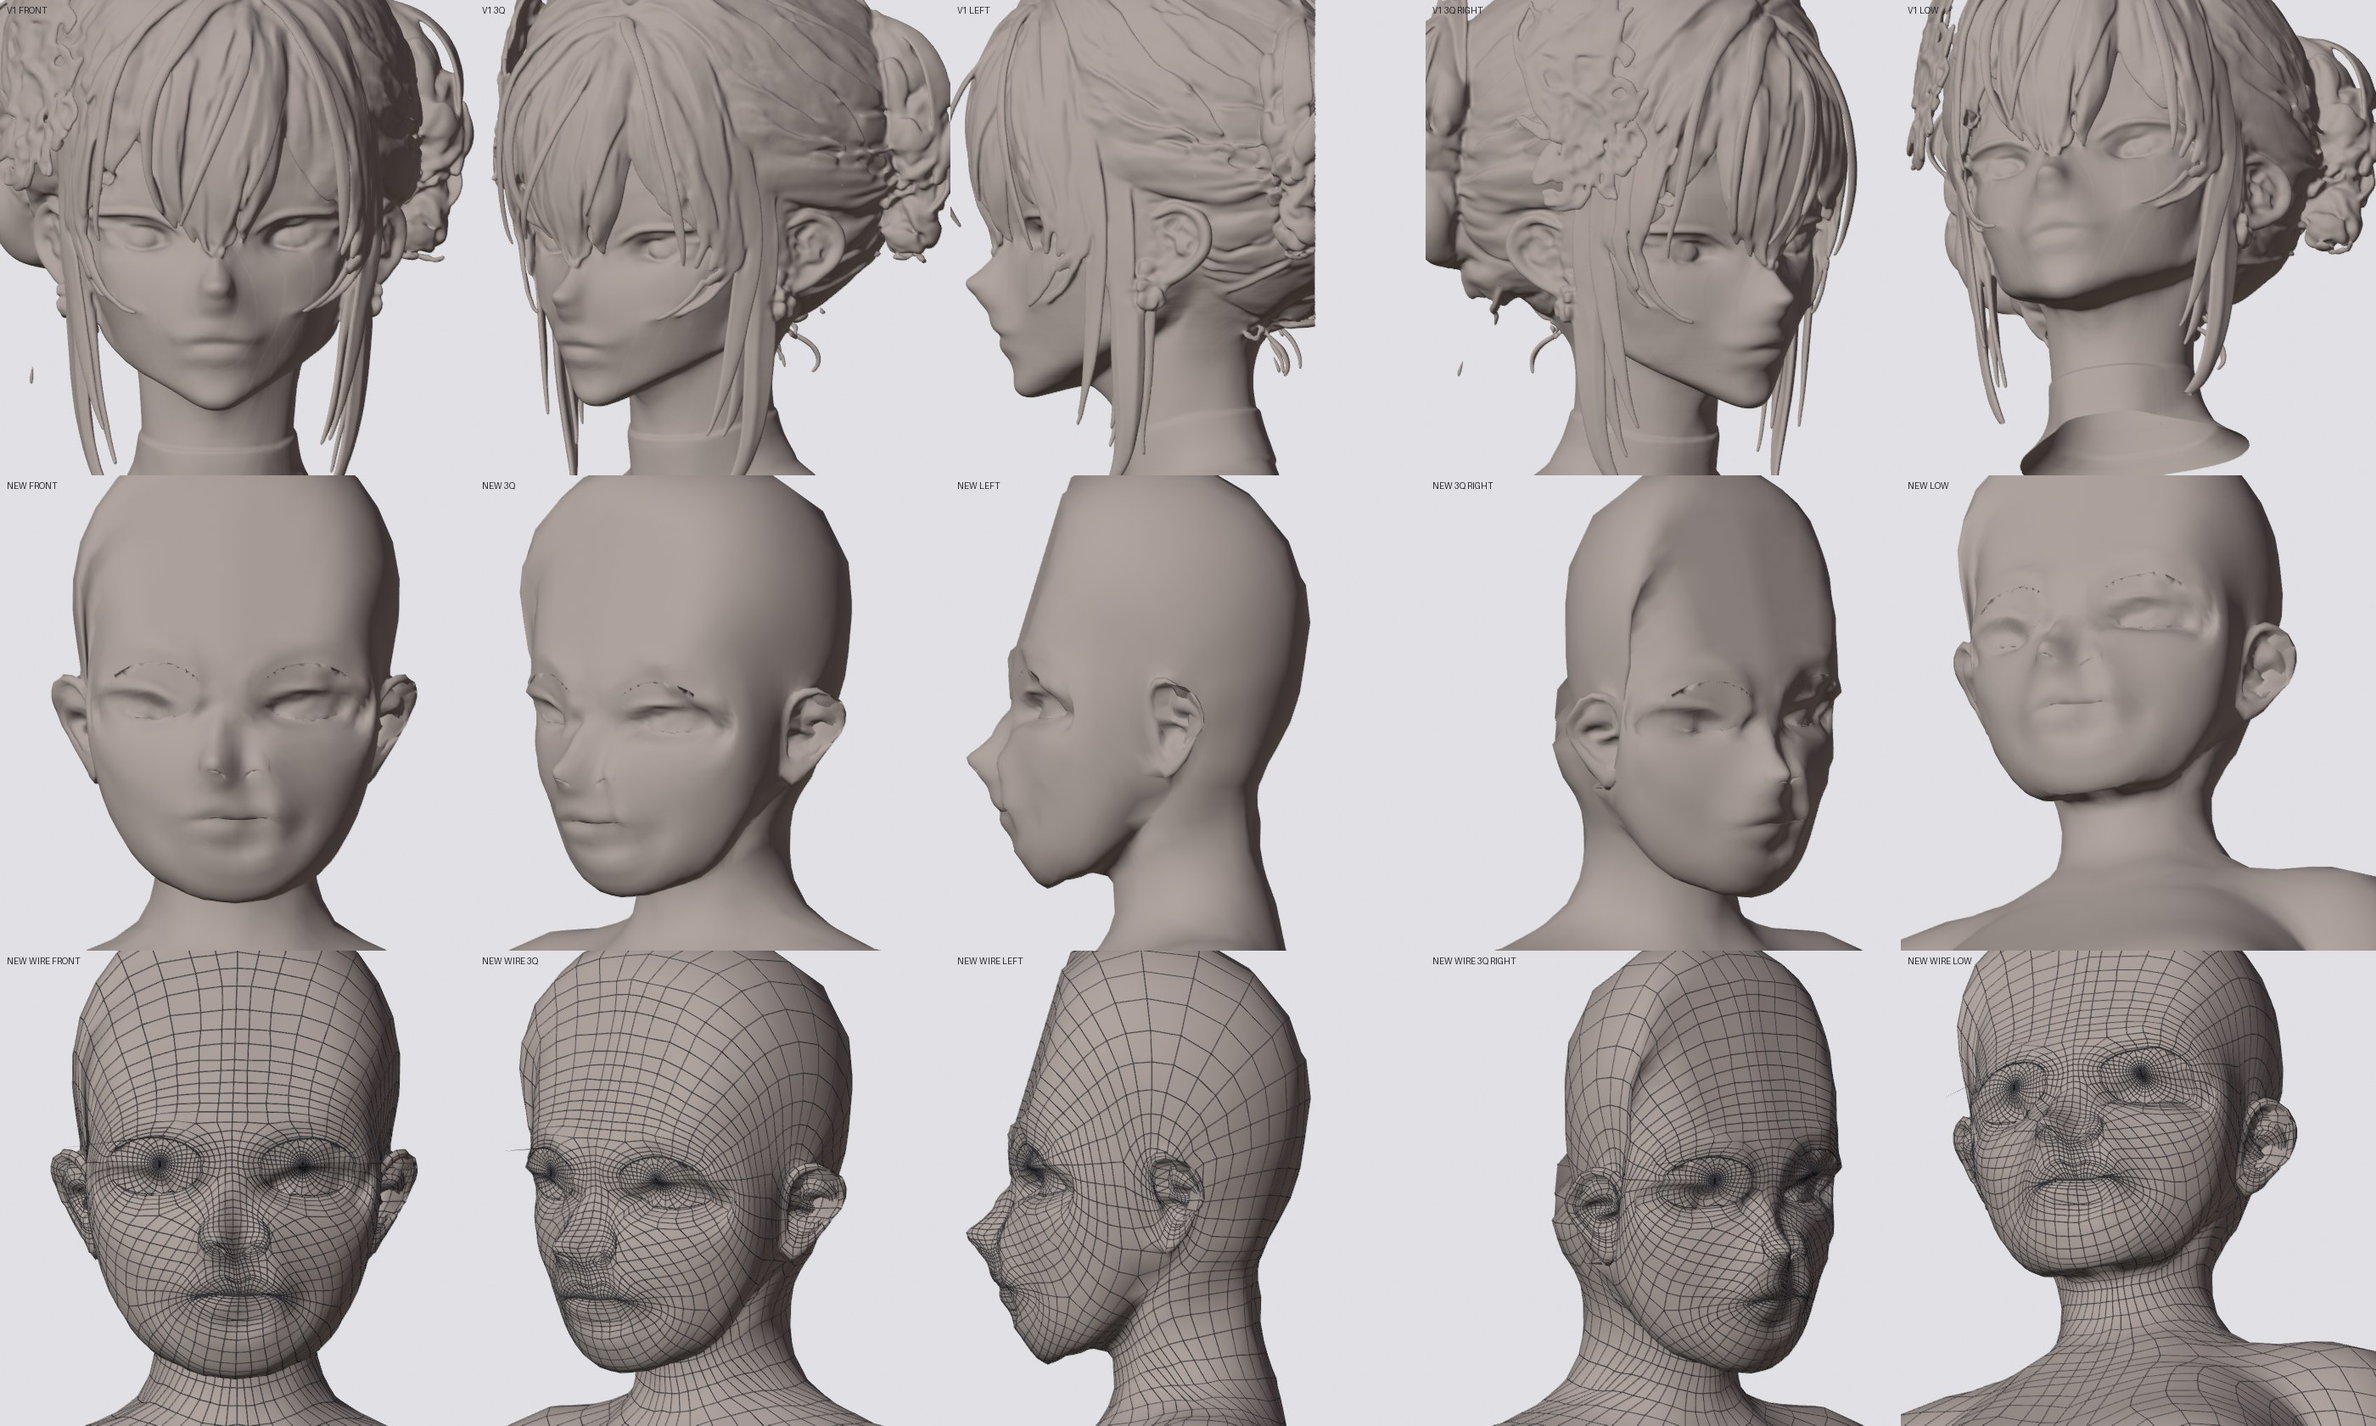
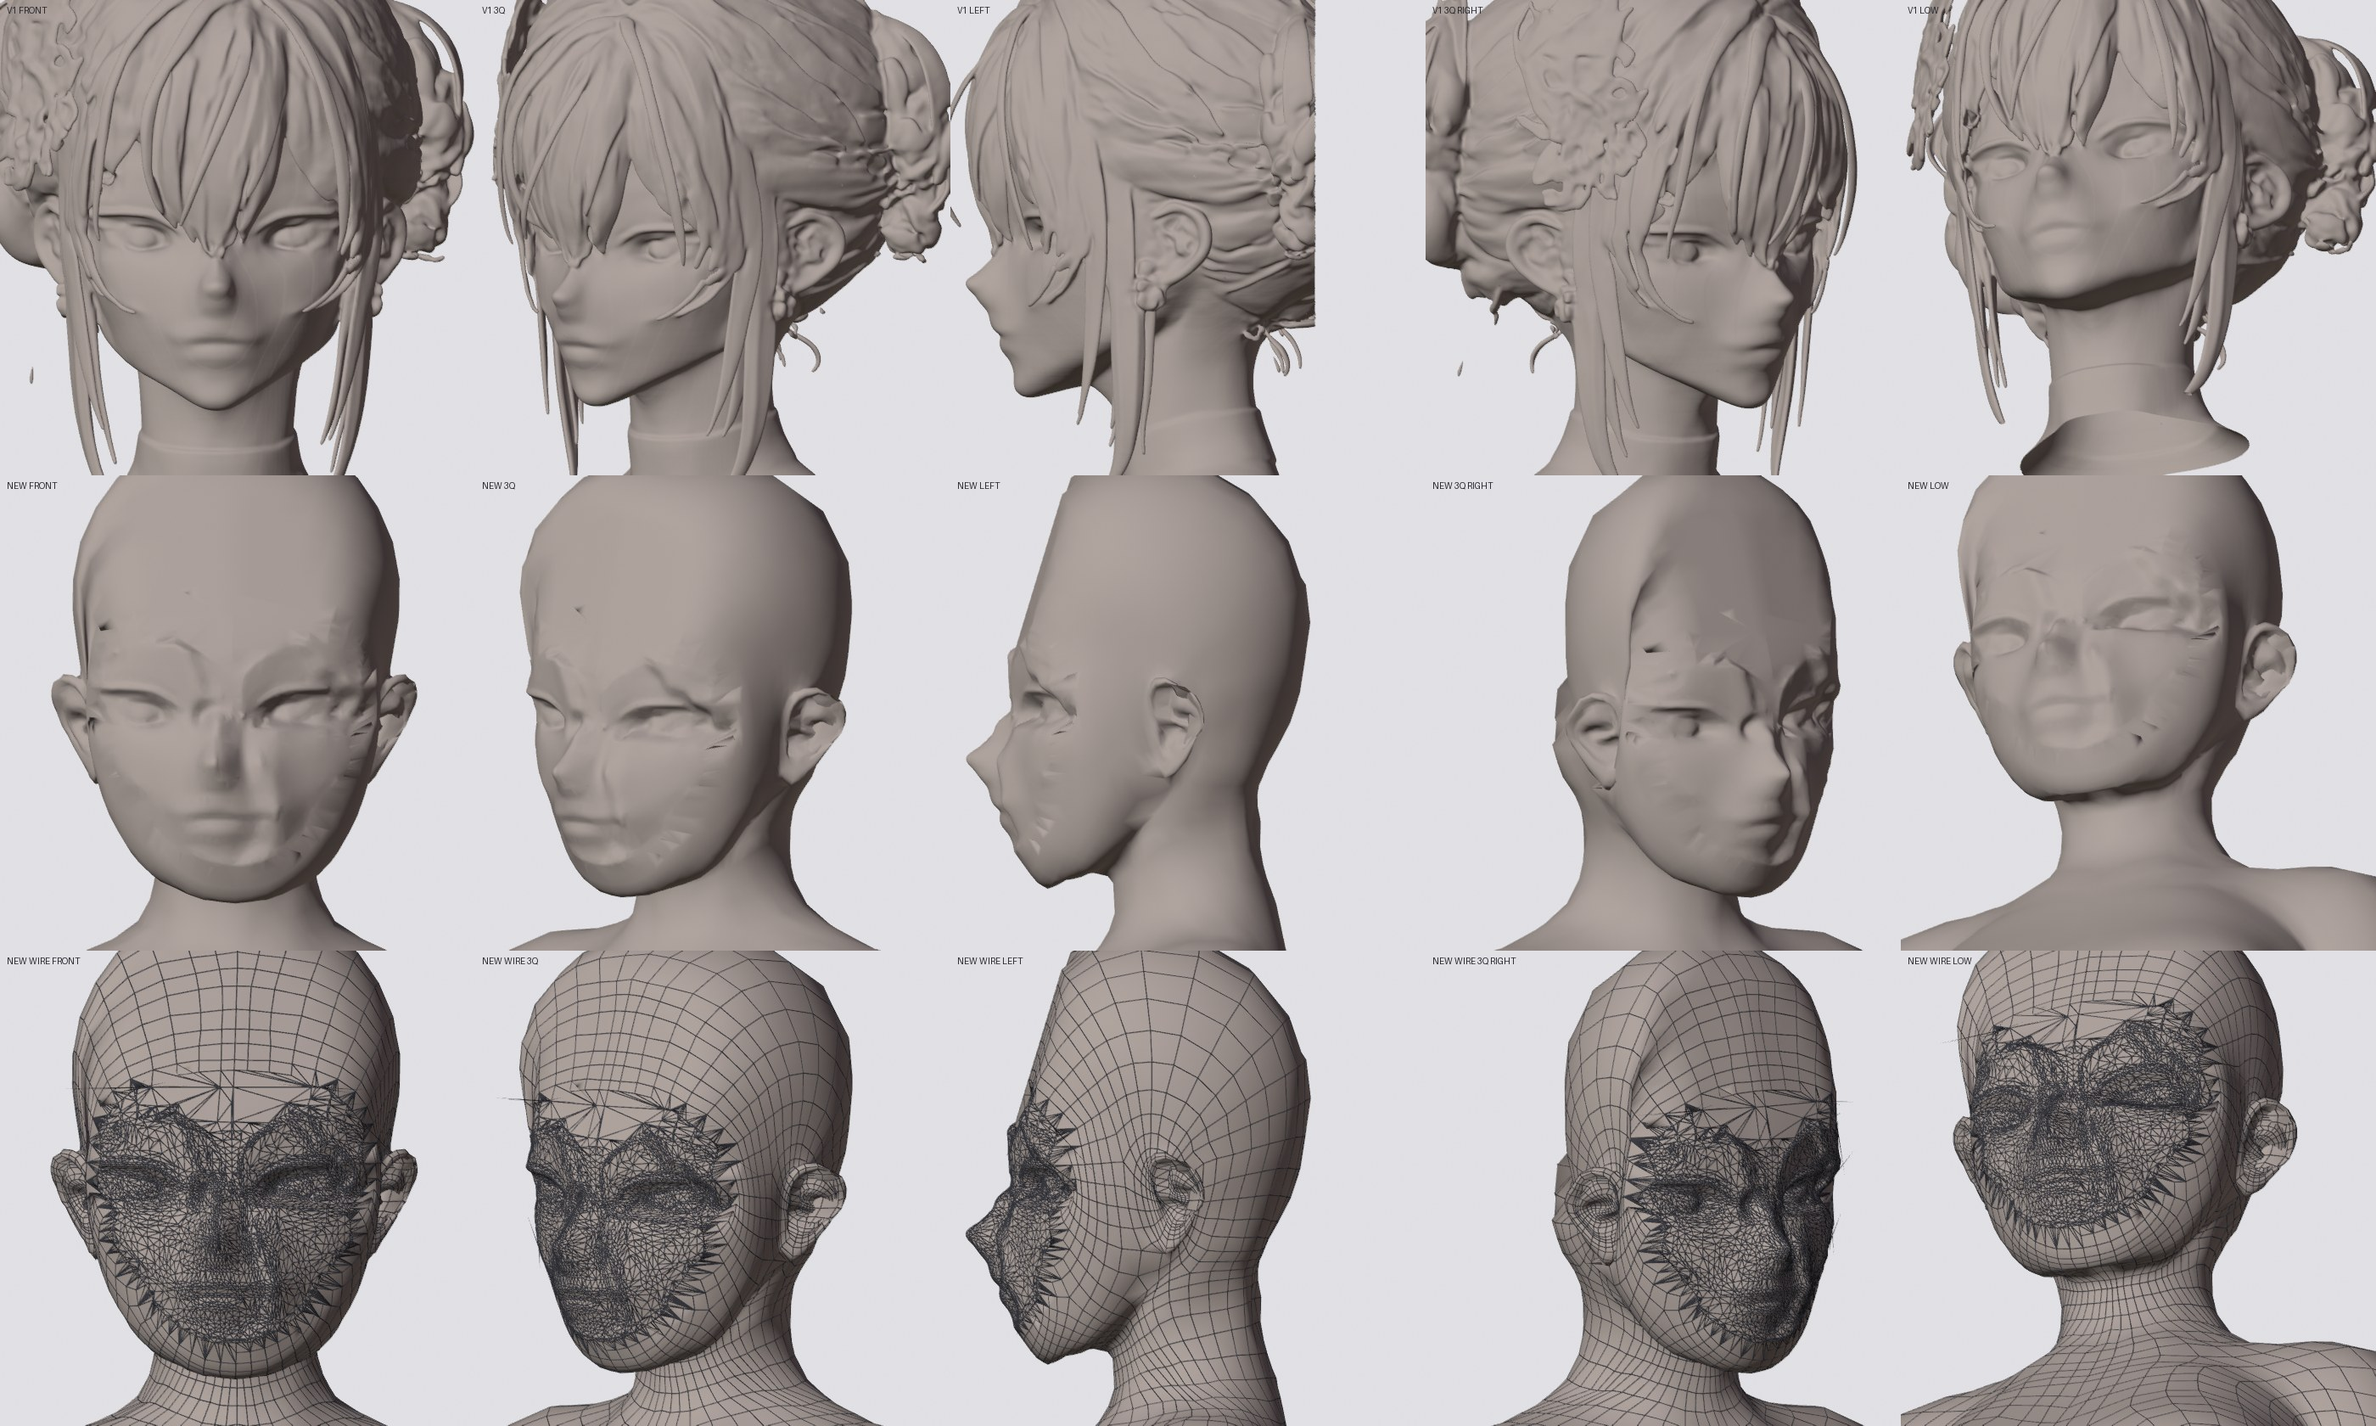
Elise v2: the first version's face grafted into the continuous body
The owner chose the first version's face as it is: its skin surface
(1 mm depth map of the generated head) replaces the base mesh's face
inside a smooth outline and is sewn to the hole; the rim blends into
the fitted head. 0 open edges.

Claude-Session: https://claude.ai/code/session_01GXNexKXtwYReCYFUjnCcS3

diff --git a/art/agents/elise/v2/a1_body.py b/art/agents/elise/v2/a1_body.py
@@ -379,13 +379,138 @@ zmin = X[:, 2].min(); print('lowest point %.4f; height of the body (no hair) %.3
 np.savez_compressed(WD + '/body.npz', V=X, F=F, FT=FT, VT=VT, w_names=np.array(list(W)), w=np.stack([W[k] for k in W], 1).astype(np.float32),
                     face_region=R, cav=CAV, **{'pk_' + k: v[0] for k, v in PK.items()}, **{'rim_' + k: v[1] for k, v in PK.items()}, newb_names=np.array(list(NEWB)), newb=np.array([np.r_[NEWB[k][0], NEWB[k][1]] for k in NEWB]),
                     landmarks=np.array([I_NOSE, I_CHIN]))
-# ---------------- check images
+# ---------------- the face of the first version itself, grafted in: its skin surface (the depth map of the generated
+# head at 1 mm, i.e. the same shape) replaces the base mesh's face and is sewn to the hole without a gap
+M = ok.copy(); reach = np.zeros((NZ, NX), bool); st = [(0, 0), (0, NX - 1), (NZ - 1, 0), (NZ - 1, NX - 1)]
+while st:
+    j, i = st.pop()
+    if j < 0 or i < 0 or j >= NZ or i >= NX or reach[j, i] or M[j, i]: continue
+    reach[j, i] = True; st += [(j + 1, i), (j - 1, i), (j, i + 1), (j, i - 1)]
+M = ~reach                                  # holes filled
+def erode(m, n_):
+    for _ in range(n_):
+        p_ = np.pad(m, 1); m = p_[1:-1, 1:-1] & p_[2:, 1:-1] & p_[:-2, 1:-1] & p_[1:-1, 2:] & p_[1:-1, :-2]
+    return m
+def dilate(m, n_):
+    for _ in range(n_):
+        p_ = np.pad(m, 1); m = p_[1:-1, 1:-1] | p_[2:, 1:-1] | p_[:-2, 1:-1] | p_[1:-1, 2:] | p_[1:-1, :-2]
+    return m
+M = dilate(erode(M, 3), 3); HP = np.where(ok, HYs, HF)
+# a smooth outline of the face around its centre (the fringe leaves the top ragged; the brows are kept under it)
+CZ = 1.558; NTH = 360; tha = (np.arange(NTH) + 0.5) / NTH * 2 * math.pi; rr_ = np.zeros(NTH)
+for k, t_ in enumerate(tha):
+    r_ = 0.0; gap = 0
+    for q_ in np.arange(0.0, 0.14, 0.0005):
+        i_ = int(round((xc + q_ * math.cos(t_) - GX0) / GS)); j_ = int(round((CZ + q_ * math.sin(t_) - GZ0) / GS))
+        if 0 <= i_ < NX and 0 <= j_ < NZ and M[j_, i_]: r_ = q_; gap = 0
+        else:
+            gap += 1
+            if gap > 5: break
+    need = (1.628 - CZ) / max(math.sin(t_), 1e-6) if math.sin(t_) > 0.55 else 0.0; rr_[k] = max(r_, min(need, 0.085))
+for _ in range(2): rr_ = np.median(np.stack([np.roll(rr_, d_) for d_ in range(-6, 7)]), 0)
+for _ in range(6): rr_ = (np.roll(rr_, 1) + rr_ + np.roll(rr_, -1)) / 3
+def r_out(x_, z_):
+    t_ = np.arctan2(np.asarray(z_) - CZ, np.asarray(x_) - xc) % (2 * math.pi); f_ = t_ / (2 * math.pi) * NTH - 0.5; k0 = np.floor(f_).astype(int); a_ = f_ - k0
+    return rr_[k0 % NTH] * (1 - a_) + rr_[(k0 + 1) % NTH] * a_
+rad_ = np.hypot(GXX - xc, GZZ - CZ); Mp = rad_ < r_out(GXX, GZZ) - 0.0015
+# the fitted body's own surface under the same pixels: used where the first version has no skin (under the fringe) and
+# as the meeting line at the rim, so the graft joins the head without a step
+bvh_m = BVHTree.FromPolygons([tuple(p_) for p_ in X], [tuple(map(int, f)) for f in F[~deep[F].any(1)]]); HM = np.full((NZ, NX), np.nan)
+for j_, i_ in zip(*np.nonzero(dilate(Mp, 4))):
+    loc = bvh_m.ray_cast(Vector((gx[i_], -0.4, gz[j_])), Vector((0, 1, 0)), 0.6)[0]
+    if loc is not None: HM[j_, i_] = loc.y
+hm_ok = ~np.isnan(HM); HMf = np.where(hm_ok, HM, 0.0); kn2 = hm_ok.copy()
+for _ in range(30):
+    P_ = np.pad(np.where(kn2, HMf, 0), 1); C_ = np.pad(kn2.astype(float), 1); s_ = P_[2:, 1:-1] + P_[:-2, 1:-1] + P_[1:-1, 2:] + P_[1:-1, :-2]; c_ = C_[2:, 1:-1] + C_[:-2, 1:-1] + C_[1:-1, 2:] + C_[1:-1, :-2]
+    new = ~kn2 & (c_ > 0); HMf[new] = (s_ / np.maximum(c_, 1))[new]; kn2 |= new
+okp = ok & (GZZ < 1.610); soft = okp.astype(float)
+for _ in range(6): P_ = np.pad(soft, 1, mode='edge'); soft = (P_[1:-1, 1:-1] * 2 + P_[2:, 1:-1] + P_[:-2, 1:-1] + P_[1:-1, 2:] + P_[1:-1, :-2]) / 6
+wv1 = np.clip((soft - 0.5) * 2, 0, 1) * okp * sstep((r_out(GXX, GZZ) - rad_ - 0.0015) / 0.007)          # 1 on the first version's skin, 0 at the rim and where it has none
+HP = wv1 * np.where(ok, HYs, 0.0) + (1 - wv1) * HMf
+print('face outline: radius min %.3f max %.3f, pixels %d, of them purely the first version %d, blended %d, body surface %d' % (rr_.min(), rr_.max(), Mp.sum(), (Mp & (wv1 > 0.99)).sum(), (Mp & (wv1 > 0.01) & (wv1 <= 0.99)).sum(), (Mp & (wv1 <= 0.01)).sum()))
+
+gidp = -np.ones((NZ, NX), int); gidp[Mp] = np.arange(int(Mp.sum())); PVv = np.stack([GXX[Mp], HP[Mp], GZZ[Mp]], 1)
+q = Mp[:-1, :-1] & Mp[1:, :-1] & Mp[:-1, 1:] & Mp[1:, 1:]; qa, qb, qc, qd = gidp[:-1, :-1][q], gidp[:-1, 1:][q], gidp[1:, 1:][q], gidp[1:, :-1][q]
 def mk(name, V_, F_, col):
     me = bpy.data.meshes.new(name); me.from_pydata([tuple(map(float, v)) for v in V_], [], [tuple(map(int, f)) for f in F_]); me.update()
     o = bpy.data.objects.new(name, me); bpy.context.scene.collection.objects.link(o); o.color = col
     for p in me.polygons: p.use_smooth = True
     return o
-ob = mk('body', X, F if NSIGN > 0 else F[:, ::-1], (0.86, 0.72, 0.66, 1)); src = mk('src', S['V'], S['F'], (0.45, 0.5, 0.62, 1)); cam = rend.setup()
+po = mk('patch', PVv, np.c_[qa, qb, qc, qd], (0.86, 0.72, 0.66, 1)); bpy.context.view_layer.objects.active = po
+bq = bmesh.new(); bq.from_mesh(po.data); bvs = [v for v in bq.verts if v.is_boundary]
+for _ in range(12):                         # the pixel staircase of the rim becomes a smooth curve
+    new = {v: sum((e_.other_vert(v).co for e_ in v.link_edges if e_.is_boundary), Vector()) / 2 for v in bvs}
+    for v, c_ in new.items(): v.co = v.co.lerp(c_, 0.5)
+for v in bvs: v.co.y = float(bil(HP, v.co.x, v.co.z))
+bq.to_mesh(po.data); bq.free()
+FACE_TRIS = 5200; md = po.modifiers.new('d', 'DECIMATE'); md.ratio = FACE_TRIS / (2.0 * len(qa)); md.use_collapse_triangulate = True; bpy.ops.object.modifier_apply(modifier='d')
+bp = bmesh.new(); bp.from_mesh(po.data); bmesh.ops.triangulate(bp, faces=bp.faces[:])
+def loops_of(b_):
+    """Boundary loops as ordered vertex lists, longest first."""
+    be = [e_ for e_ in b_.edges if e_.is_boundary]; nxt = {}
+    for e_ in be:
+        l = e_.link_loops[0]; nxt.setdefault(l.vert, []).append(l.link_loop_next.vert)          # along the face's winding
+    out = []; seen = set()
+    for v0 in list(nxt):
+        if v0 in seen: continue
+        lp = [v0]; seen.add(v0); cur = v0
+        while True:
+            cand = [w for w in nxt.get(cur, []) if w not in seen]
+            if not cand: break
+            cur = cand[0]; lp.append(cur); seen.add(cur)
+        out.append(lp)
+    return sorted(out, key=len, reverse=True)
+if sum(f.normal.y for f in bp.faces) > 0: bmesh.ops.reverse_faces(bp, faces=bp.faces[:])
+bp.normal_update(); pl = loops_of(bp); print('face patch: verts', len(bp.verts), 'tris', len(bp.faces), 'boundary loops', [len(l) for l in pl][:4])
+# the hole: base-mesh face vertices that lie under the patch go away
+inside = np.hypot(X[:, 0] - xc, X[:, 2] - CZ) < r_out(X[:, 0], X[:, 2]) + 0.0025; DEL = REG & ~bnd & inside & (X[:, 1] < 0.0)
+bm = bmesh.new(); LD = bm.verts.layers.deform.verify(); LU = bm.loops.layers.uv.new('UVMap'); vs = [bm.verts.new(tuple(map(float, p_))) for p_ in X]; bm.verts.index_update(); wn = list(W); Wm_ = np.stack([W[k] for k in wn], 1)
+for i, v in enumerate(vs):
+    for g_ in np.nonzero(Wm_[i] > 0.003)[0]: v[LD][int(g_)] = float(Wm_[i, g_])
+for f, ft in zip(F, FT):
+    fc = bm.faces.new([vs[i] for i in (f if NSIGN > 0 else f[::-1])])
+    for l, t in zip(fc.loops, ft if NSIGN > 0 else ft[::-1]): l[LU].uv = tuple(VT[t])
+    fc.smooth = True
+bmesh.ops.delete(bm, geom=[vs[i] for i in np.nonzero(DEL)[0]], context='VERTS')
+for _ in range(6):                          # no vertex may sit on two rims at once
+    bad = [v for v in bm.verts if sum(1 for e_ in v.link_edges if e_.is_boundary) > 2]
+    if not bad: break
+    bmesh.ops.delete(bm, geom=bad, context='VERTS')
+hl = loops_of(bm); print('hole in the base mesh: verts removed', int(DEL.sum()), 'rims', [len(l) for l in hl][:5])
+for extra in hl[1:]:
+    es = [e_ for e_ in bm.edges if e_.is_boundary and e_.verts[0] in extra and e_.verts[1] in extra]; bmesh.ops.holes_fill(bm, edges=es, sides=0)
+hl = loops_of(bm); hole = hl[0]; hid = wn.index('head')
+# sew: both rims in the same direction, started at the chin, walked together by arc length
+pv_new = {v: bm.verts.new(v.co) for v in bp.verts}
+for v in pv_new.values(): v[LD][hid] = 1.0
+for f in bp.faces:
+    fc = bm.faces.new([pv_new[v] for v in f.verts]); fc.smooth = True
+    for l in fc.loops: l[LU].uv = (0.0, 0.0)
+prim = [pv_new[v] for v in pl[0]]
+def prep_loop(lp):
+    c = np.array([v.co[:] for v in lp]); area = sum(c[k, 0] * c[(k + 1) % len(c), 2] - c[(k + 1) % len(c), 0] * c[k, 2] for k in range(len(c)))
+    if area < 0: lp = lp[::-1]; c = c[::-1]
+    k0 = int(np.argmin(abs(((np.arctan2(c[:, 2] - CZ, c[:, 0] - xc) + math.pi / 2 + math.pi) % (2 * math.pi)) - math.pi))); lp = lp[k0:] + lp[:k0]; c = np.roll(c, -k0, 0)
+    an = np.unwrap(np.arctan2(c[:, 2] - CZ, c[:, 0] - xc)); an = np.maximum.accumulate(an - an[0]); t = np.r_[an, 2 * math.pi] / (2 * math.pi); return lp, t
+A_, ta = prep_loop(hole); B_, tb = prep_loop(prim); i = j = 0; na, nb_ = len(A_), len(B_); cen_ = Vector((xc, 0.01, 1.57)); nz = 0
+while i < na or j < nb_:
+    if j >= nb_ or (i < na and ta[i + 1] <= tb[j + 1]): tri = (A_[i % na], A_[(i + 1) % na], B_[j % nb_]); i += 1
+    else: tri = (B_[j % nb_], B_[(j + 1) % nb_], A_[i % na]); j += 1
+    try: fc = bm.faces.new(tri)
+    except ValueError: continue
+    fc.smooth = True; nz += 1
+    for l in fc.loops: l[LU].uv = (0.0, 0.0)
+bmesh.ops.recalc_face_normals(bm, faces=bm.faces[:]); bm.normal_update()
+if sum(f.normal.dot(f.calc_center_median() - Vector((0, 0, 0.9))) for f in bm.faces) < 0: bmesh.ops.reverse_faces(bm, faces=bm.faces[:])
+print('sewn: seam triangles', nz, '| whole body: verts', len(bm.verts), 'faces', len(bm.faces), 'quads', sum(1 for f in bm.faces if len(f.verts) == 4), 'tris', sum(1 for f in bm.faces if len(f.verts) == 3), 'boundary edges', sum(1 for e_ in bm.edges if e_.is_boundary), 'non-manifold edges', sum(1 for e_ in bm.edges if not e_.is_manifold))
+bme = bpy.data.meshes.new('elise_body'); bm.to_mesh(bme); bobj = bpy.data.objects.new('elise_body', bme); bpy.context.scene.collection.objects.link(bobj); bobj.color = (0.86, 0.72, 0.66, 1)
+for k in wn: bobj.vertex_groups.new(name=k)
+fpat = bme.attributes.new('face_patch', 'BOOLEAN', 'POINT'); npv = len(pv_new); fpat.data.foreach_set('value', [i >= len(bme.vertices) - npv for i in range(len(bme.vertices))])
+bpy.data.objects.remove(po); bp.free(); bm.free()
+bpy.ops.wm.save_as_mainfile(filepath=WD + '/body.blend')
+np.savez_compressed(WD + '/face.npz', HP=HP, rr=rr_, xc=xc, CZ=CZ, grid=np.array([GX0, GZ0, GS, NX, NZ]), newb_names=np.array(list(NEWB)), newb=np.array([np.r_[NEWB[k][0], NEWB[k][1]] for k in NEWB]))
+# ---------------- check images
+ob = bobj; src = mk('src', S['V'], S['F'], (0.45, 0.5, 0.62, 1)); cam = rend.setup()
 v1 = mk('v1face', hv, hf, (0.86, 0.72, 0.66, 1)); v1.hide_render = True
 bm = bmesh.new(); bm.from_mesh(ob.data); print('manifold check: boundary edges', sum(1 for e_ in bm.edges if e_.is_boundary), 'non-manifold', sum(1 for e_ in bm.edges if not e_.is_manifold), 'quads', sum(1 for f in bm.faces if len(f.verts) == 4), 'of', len(bm.faces)); bm.free()
 rows = []; src.hide_render = True
@@ -399,7 +524,7 @@ ob.data.materials.append(bpy.data.materials.new('m'));
 def wshot(n, v, w, h):
     # wire overlay: a second render with a wireframe modifier copy
     return (n, rend.shot(cam, f'{WD}/r/_a{n}.png', v, w, h))
-wo = ob.copy(); wo.data = ob.data.copy(); bpy.context.scene.collection.objects.link(wo); b2 = bmesh.new(); b2.from_mesh(wo.data); b2.verts.ensure_lookup_table(); bmesh.ops.delete(b2, geom=[v for v in b2.verts if deep[v.index]], context='VERTS'); b2.to_mesh(wo.data); b2.free(); md = wo.modifiers.new('w', 'WIREFRAME'); md.thickness = 0.0006; md.use_replace = True; wo.color = (0.1, 0.1, 0.12, 1)
+wo = ob.copy(); wo.data = ob.data.copy(); bpy.context.scene.collection.objects.link(wo);  md = wo.modifiers.new('w', 'WIREFRAME'); md.thickness = 0.0006; md.use_replace = True; wo.color = (0.1, 0.1, 0.12, 1)
 rows.append([wshot(n, v, 560, 560) for n, v in (('wface', [0, 0, 1.575, 0.24, 0, 0]), ('face 3q', [0, 0, 1.575, 0.26, 40, 5]), ('head left', [0, 0, 1.60, 0.34, 90, 0]), ('hand', [0.29, -0.02, 0.88, 0.2, 90, 0]), ('hand front', [0.29, -0.02, 0.88, 0.2, 0, 0]), ('hips back', [0, 0, 0.9, 0.6, 180, 0]))])
 wo.hide_render = True
 rows.append([wshot(n, v, 560, 560) for n, v in (('face', [0, 0, 1.575, 0.24, 0, 0]), ('face left', [0, 0, 1.575, 0.24, 90, 0]), ('torso', [0, 0, 1.25, 0.7, 30, 5]), ('shoulder back', [0, 0, 1.3, 0.7, 200, 10]), ('hips 3q', [0, 0, 0.85, 0.7, 40, 0]), ('hand s', [0.29, -0.02, 0.88, 0.2, 60, 10]))])

diff --git a/docs/art/elise/HANDOFF.md b/docs/art/elise/HANDOFF.md
@@ -196,3 +196,7 @@ the feet moved by FootPlant at run time, and the thigh above 0.66 m (see "Capsul
   upper arms, forearms, pelvis, spine, chest, neck, head.
 - Run it after FootPlant (it moves the legs). Keep the gown's top row fixed to the pelvis; a soft pull to the rest
   shape (stronger on the two slit edges) keeps the open gown from sliding off the legs.
+
+## Pass 4: one whole character (11.11.2026, branch `claude/elise-v2`), stage log
+
+- body: `art/agents/elise/v2/a1_body.py`; one closed mesh from head to toes (CC0 MakeHuman base mesh posed on her skeleton and fitted to the generated torso, hips, seat and legs, mean residual 0.6 mm), with the first version's own face surface grafted in and sewn (the owner chose the first version's face as it is): 13 493 vertices, 10 686 quads + 5 582 triangles (face graft and seam), 0 open edges; left: 3 non-manifold edges at the seam, the forehead under the fringe is the base mesh's, hands and feet keep the base mesh's shape.
